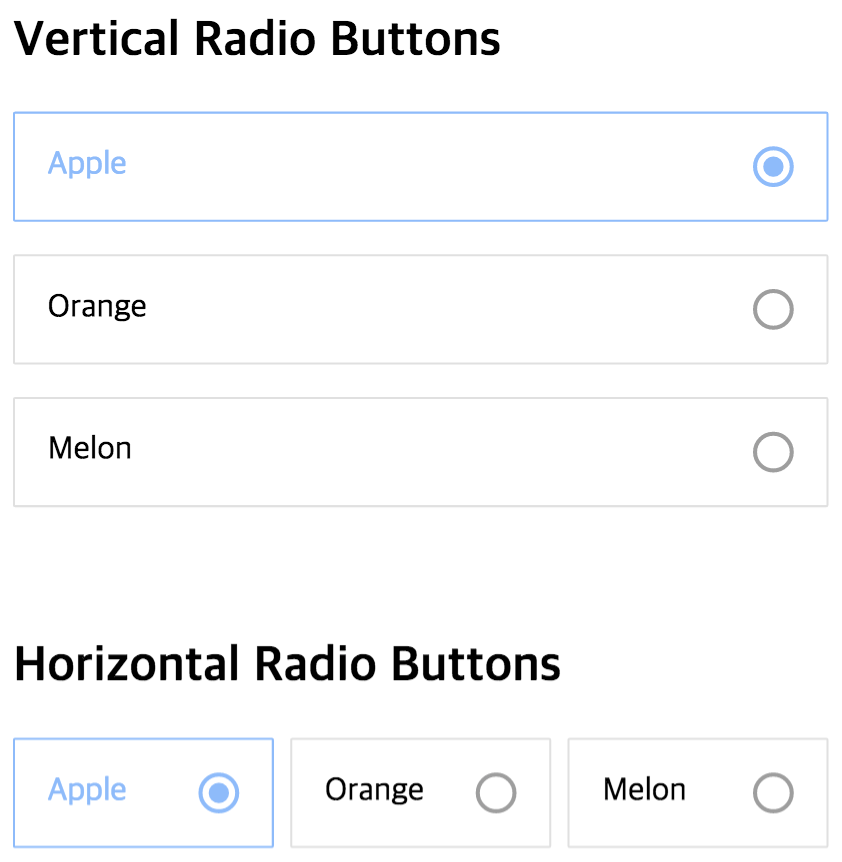
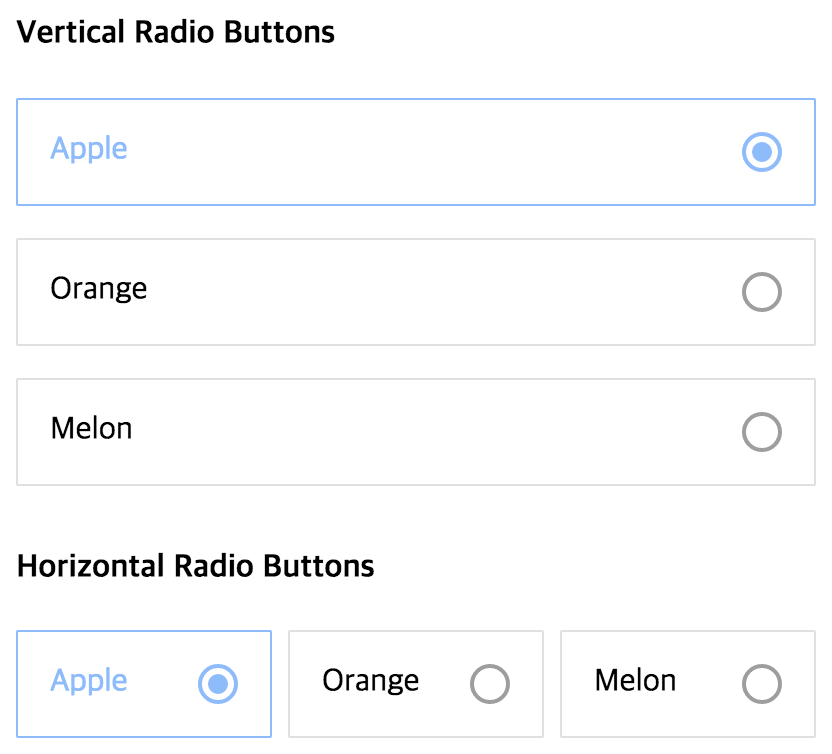
Fix examples

diff --git a/example/example.jsx b/example/example.jsx
@@ -11,7 +11,7 @@ let App = React.createClass({
   render() {
     return (
       <div style={ { padding: 16 } }>
-        <h2>Vertical Radio Buttons</h2>
+        <h4>Vertical Radio Buttons</h4>
         <RadioGroup onChange={ this.onChange }>
           <RadioButton value="apple">
             Apple
@@ -23,7 +23,7 @@ let App = React.createClass({
             Melon
           </RadioButton>
         </RadioGroup>
-        <h2 style={ { marginTop: 64 } }>Horizontal Radio Buttons</h2>
+        <h4 style={ { marginTop: 32 } }>Horizontal Radio Buttons</h4>
         <RadioGroup onChange={ this.onChange } horizontal>
           <RadioButton value="apple">
             Apple
